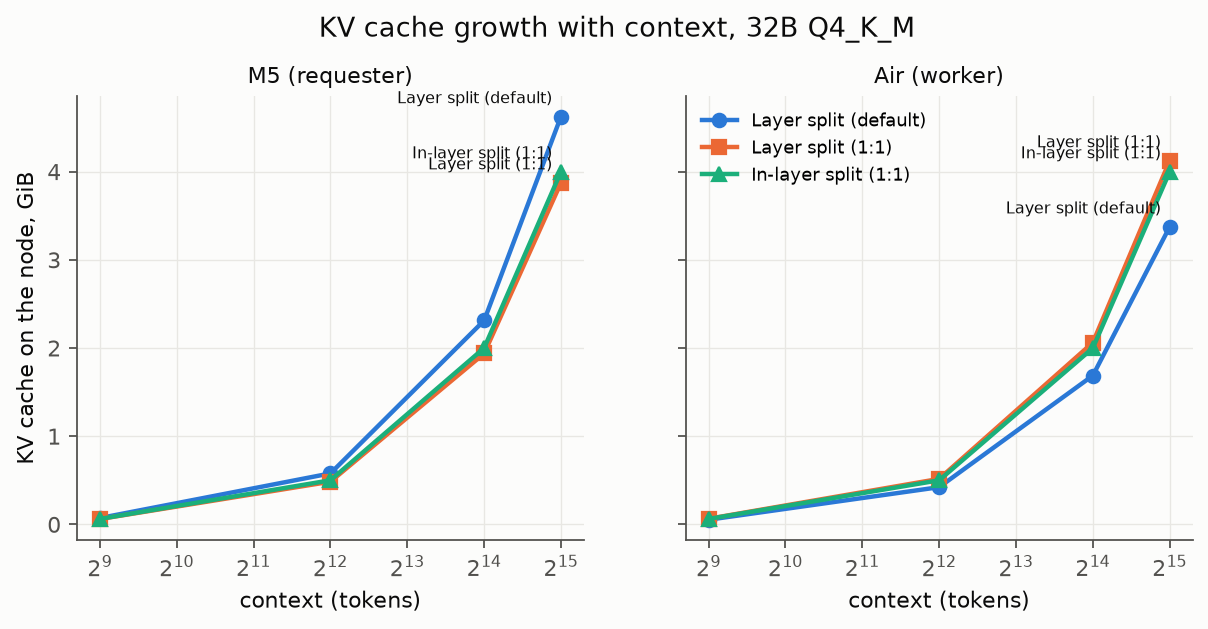
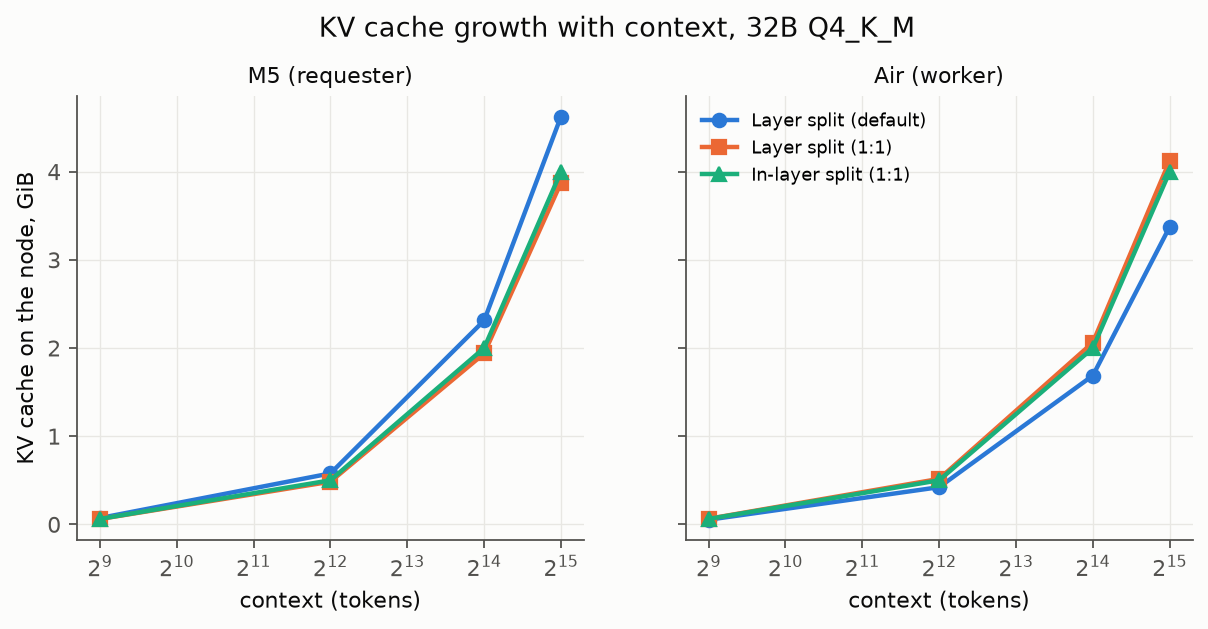
Session 5 G6: edge table and figures with the 3:2 splits and the no-mmap check; Air cache prune, extra override flags

diff --git a/nocturne/bench/plot_edge.py b/nocturne/bench/plot_edge.py
@@ -13,9 +13,12 @@ ROOT = Path(__file__).resolve().parents[2]
 OUT = ROOT / "experiments" / "session5_memory_edge"
 STEPS = [("qwen2.5-7b-q4km", "7B Q4_K_M"), ("qwen2.5-14b-q4km", "14B Q4_K_M"), ("qwen2.5-32b-q4km", "32B Q4_K_M"),
          ("qwen2.5-32b-q5km", "32B Q5_K_M"), ("qwen2.5-32b-q6k", "32B Q6_K"), ("qwen2.5-32b-q8", "32B Q8_0")]
-PARTS = ["local M5", "local Air", "PP default", "PP balanced", "TP", "TP 3:2"]
+PARTS = ["local M5", "local Air", "PP default", "PP 3:2", "PP 3:2 no-mmap", "PP balanced", "TP", "TP 3:2"]
 LABEL = {"local M5": "M5 alone", "local Air": "Air alone", "PP default": "Layer split (default)",
+         "PP 3:2": "Layer split (3:2)", "PP 3:2 no-mmap": "Layer split (3:2), no mmap",
          "PP balanced": "Layer split (1:1)", "TP": "In-layer split (1:1)", "TP 3:2": "In-layer split (3:2)"}
+SHORT = {"qwen2.5-7b-q4km": "7B\nQ4", "qwen2.5-14b-q4km": "14B\nQ4", "qwen2.5-32b-q4km": "32B\nQ4",
+         "qwen2.5-32b-q5km": "32B\nQ5", "qwen2.5-32b-q6k": "32B\nQ6", "qwen2.5-32b-q8": "32B\nQ8"}
 KIND = [("model", "Weights", "#2a78d6"), ("kv", "KV cache", "#eb6834"), ("compute", "Compute buffers", "#1baf7a")]
 GOOD, BAD, NA = "#0ca30c", "#d03b3b", "#e4e3df"
 INK, INK2, SURF = "#0b0b0b", "#52514e", "#fcfcfb"
@@ -28,18 +31,23 @@ plt.rcParams.update({"font.size": 10, "axes.edgecolor": INK2, "axes.labelcolor":
 
 def load(path: Path) -> list[dict]:
     with path.open() as f:
-        return list(csv.DictReader(f))
+        return [r for r in csv.DictReader(f) if r["prompts"] == "eval_set"]
 
 
 def num(v):
     return float(v) if v not in (None, "") else None
 
 
-def fig_bars(rows, ctx: int, out: Path):
-    steps = [(m, l) for m, l in STEPS if any(r["model"] == m and int(r["ctx"]) == ctx for r in rows)]
-    parts = ["PP default", "PP balanced", "TP"]
-    fig, axes = plt.subplots(1, len(steps), figsize=(3.2 * len(steps) + 1, 4.2), sharey=True, squeeze=False)
-    for ax, (m, lab) in zip(axes[0], steps):
+def fig_bars(rows, ctx: int, out: Path, models=None, parts=None, title=None, ncols=3):
+    steps = [(m, l) for m, l in STEPS if any(r["model"] == m and int(r["ctx"]) == ctx for r in rows)
+             and (models is None or m in models)]
+    parts = parts or ["PP default", "PP 3:2", "PP balanced", "TP", "TP 3:2"]
+    ncols = min(ncols, len(steps))
+    nrows = -(-len(steps) // ncols)
+    fig, axes = plt.subplots(nrows, ncols, figsize=(1.45 * len(parts) * ncols + 1, 4.6 * nrows), sharey=True, squeeze=False)
+    for ax in axes.flat[len(steps):]:
+        ax.set_visible(False)
+    for ax, (m, lab) in zip(axes.flat, steps):
         xs, ticks = [], []
         for i, p in enumerate(parts):
             r = next((r for r in rows if r["model"] == m and int(r["ctx"]) == ctx and r["partition"] == p), None)
@@ -55,17 +63,22 @@ def fig_bars(rows, ctx: int, out: Path):
                     ax.bar(x, v, bottom=bottom, width=0.8, color=c, edgecolor=SURF, linewidth=1)
                     bottom += v
                 ax.plot([x - 0.45, x + 0.45], [LINE[node]] * 2, color=INK, linewidth=1.5, linestyle="--")
-                mark = "fits" if r["fits"] == "yes" else (r["failure_class"] or "fail").split(";")[-1].replace("_", " ")
-                ax.text(x, bottom + 0.3, mark, rotation=90, ha="center", va="bottom", fontsize=7, color=INK)
-            ax.text(i * 2.6 + 0.5, -0.1, LABEL[p].replace(" (", "\n("), ha="center", va="top", fontsize=8, color=INK,
-                    transform=ax.get_xaxis_transform())
+            mark = "fits" if r and r["fits"] == "yes" else "fails"
+            if r is not None:
+                ax.text(i * 2.6 + 0.5, 20.2, mark, ha="center", va="bottom", fontsize=8,
+                        color=GOOD if mark == "fits" else BAD, fontweight="bold")
+            ax.text(i * 2.6 + 0.5, -0.09, LABEL[p].replace(" (", "\n(").replace(", ", "\n"), ha="center", va="top",
+                    fontsize=7.5, color=INK, transform=ax.get_xaxis_transform())
         ax.set_xticks(xs, ticks, fontsize=8)
-        ax.set_title(lab, fontsize=10, color=INK)
+        ax.set_title(lab, fontsize=10, color=INK, pad=16)
+        ax.set_ylim(0, 21)
         ax.grid(axis="x", visible=False)
-    axes[0][0].set_ylabel("GiB on the node's GPU")
+    for row in axes:
+        row[0].set_ylabel("GiB on the node's GPU")
     handles = [plt.Rectangle((0, 0), 1, 1, color=c) for _, _, c in KIND] + [plt.Line2D([], [], color=INK, linestyle="--")]
-    fig.legend(handles, [l for _, l, _ in KIND] + ["Metal working set line"], loc="lower center", bbox_to_anchor=(0.5, -0.12), ncol=4, frameon=False)
-    fig.suptitle(f"Memory per node at context {ctx}", y=1.0, color=INK)
+    fig.tight_layout(h_pad=4)
+    fig.legend(handles, [l for _, l, _ in KIND] + ["Metal working set line"], loc="upper center", bbox_to_anchor=(0.5, 0.0), ncol=4, frameon=False)
+    fig.suptitle(title or f"Memory per node at context {ctx}", y=1.02, color=INK)
     fig.savefig(out, dpi=160, bbox_inches="tight")
     plt.close(fig)
 
@@ -74,8 +87,12 @@ def fig_fitmap(rows, out: Path):
     steps = [(m, l) for m, l in STEPS if any(r["model"] == m for r in rows)]
     ctxs = sorted({int(r["ctx"]) for r in rows})
     parts = [p for p in PARTS if any(r["partition"] == p for r in rows)]
-    fig, axes = plt.subplots(1, len(parts), figsize=(2.6 * len(parts) + 0.6, 0.55 * len(ctxs) + 1.8), sharey=True, squeeze=False)
-    for ax, p in zip(axes[0], parts):
+    ncols = 4
+    nrows = -(-len(parts) // ncols)
+    fig, axes = plt.subplots(nrows, ncols, figsize=(3.0 * ncols + 0.6, (0.55 * len(ctxs) + 1.4) * nrows), sharey=True, squeeze=False)
+    for ax in axes.flat[len(parts):]:
+        ax.set_visible(False)
+    for ax, p in zip(axes.flat, parts):
         for xi, (m, _) in enumerate(steps):
             for yi, c in enumerate(ctxs):
                 r = next((r for r in rows if r["model"] == m and int(r["ctx"]) == c and r["partition"] == p), None)
@@ -84,13 +101,15 @@ def fig_fitmap(rows, out: Path):
                 if txt:
                     ax.text(xi + 0.5, yi + 0.5, txt, ha="center", va="center", fontsize=7, color="white")
         ax.set_xlim(0, len(steps)); ax.set_ylim(0, len(ctxs))
-        ax.set_xticks([i + 0.5 for i in range(len(steps))], [l.replace(" ", "\n") for _, l in steps], fontsize=7)
+        ax.set_xticks([i + 0.5 for i in range(len(steps))], [SHORT[m] for m, _ in steps], fontsize=7.5)
         ax.set_yticks([i + 0.5 for i in range(len(ctxs))], [str(c) for c in ctxs], fontsize=8)
         ax.set_title(LABEL[p], fontsize=9, color=INK)
         ax.grid(False)
         ax.spines["left"].set_visible(False); ax.spines["bottom"].set_visible(False)
-    axes[0][0].set_ylabel("context (tokens)")
-    fig.suptitle("Where each partition fits (grey: not run)", y=1.02, color=INK)
+    for row in axes:
+        row[0].set_ylabel("context (tokens)")
+    fig.tight_layout(h_pad=2)
+    fig.suptitle("Where each partition fits (grey: not run). Q4 = Q4_K_M, Q5 = Q5_K_M, Q6 = Q6_K, Q8 = Q8_0", y=1.03, color=INK)
     fig.savefig(out, dpi=160, bbox_inches="tight")
     plt.close(fig)
 
@@ -105,7 +124,6 @@ def fig_kv(rows, out: Path, model="qwen2.5-32b-q4km"):
             if not pts:
                 continue
             ax.plot([x for x, _ in pts], [y for _, y in pts], color=c, marker=mk, markersize=6, linewidth=2, label=LABEL[p])
-            ax.annotate(LABEL[p], pts[-1], textcoords="offset points", xytext=(-4, 6), ha="right", fontsize=7, color=INK)
         ax.set_xscale("log", base=2)
         ax.set_title("M5 (requester)" if node == "m5" else "Air (worker)", fontsize=10, color=INK)
         ax.set_xlabel("context (tokens)")
@@ -127,6 +145,9 @@ def main(argv=None):
     fig_bars(rows, a.ctx, fig_dir / "a_memory_per_node.png")
     fig_fitmap(rows, fig_dir / "b_fit_map.png")
     fig_kv(rows, fig_dir / "c_kv_growth.png")
+    fig_bars(rows, 16384, fig_dir / "d_q6k_ctx16384.png", models={"qwen2.5-32b-q6k"},
+             parts=["PP default", "PP 3:2", "PP 3:2 no-mmap", "TP 3:2"], ncols=1,
+             title="32B Q6_K at context 16384: the one cell where in-layer split fits and the layer split with mmap fails")
     print(f"figures -> {fig_dir}")
 
 

diff --git a/nocturne/bench/session5.py b/nocturne/bench/session5.py
@@ -22,10 +22,10 @@ PY = sys.executable
 SIZE = ["qwen2.5-7b-q4km", "qwen2.5-14b-q4km", "qwen2.5-32b-q4km", "qwen2.5-32b-q5km", "qwen2.5-32b-q6k", "qwen2.5-32b-q8"]
 NO_WORKER_COPY = {"qwen2.5-32b-q8"}          # deleted on the Air after the hash check (disk); workers never read it
 LABEL = {("A1", ""): "PP default", ("A1", "prop"): "PP 3:2", ("A1", "bal"): "PP balanced", ("B1", ""): "TP",
-         ("B1", "prop"): "TP 3:2", ("BASELINE", ""): "local", ("B1t", ""): "TP torch"}
+         ("B1", "prop"): "TP 3:2", ("A1", "propnommap"): "PP 3:2 no-mmap", ("BASELINE", ""): "local", ("B1t", ""): "TP torch"}
 # Device order differs by mode on 1e7bcf3: layer mode lists RPC devices first (-ts Air,M5), tensor mode puts the
 # requester first (-ts M5,Air; checked against the worker's set_tensor bytes, 2026-11-07). Both give M5 3, Air 2.
-TS = {("A1", "bal"): "1,1", ("A1", "prop"): "2,3", ("B1", "prop"): "3,2"}
+TS = {("A1", "bal"): "1,1", ("A1", "prop"): "2,3", ("A1", "propnommap"): "2,3", ("B1", "prop"): "3,2"}
 
 
 def now() -> str:
@@ -80,6 +80,8 @@ class Step:
             a += ["--fixed-tokens", str(self.fixed)]
         if (self.cell, self.var) in TS:
             a.append(f"--override-flag=-ts={TS[(self.cell, self.var)]}")
+        if "nommap" in self.var:
+            a.append("--override-flag=--load-mode=none")
         return a
 
 
@@ -131,9 +133,21 @@ class Orchestrator:
             self.say("Air not reachable over ssh; retrying in 60 s")
             time.sleep(60)
 
+    def prune_air_cache(self, min_free_gb: int = 25):
+        """ggml-rpc-server -c stores every received tensor on the Air's disk; clear it when free space runs low."""
+        ssh = ["ssh", "-o", "BatchMode=yes", "-o", "ConnectTimeout=10", self.air]
+        r = subprocess.run(ssh + ["df -g ~ | tail -1 | awk '{print $4}'"], capture_output=True, text=True, timeout=60)
+        free = r.stdout.strip()
+        if not free.isdigit() or int(free) >= min_free_gb:
+            return
+        r = subprocess.run(ssh + ["du -sh ~/Library/Caches/llama.cpp/rpc; rm -rf ~/Library/Caches/llama.cpp/rpc; "
+                                  "df -g ~ | tail -1 | awk '{print $4}'"], capture_output=True, text=True, timeout=600)
+        self.say(f"Air free disk {free} GB: cleared the RPC tensor cache ({' '.join(r.stdout.split())} GB free after)")
+
     def preflight(self, model: str):
         if model in self.preflighted or self.a.dry_run:
             return
+        self.prune_air_cache()
         argv = [PY, "-m", "nocturne.bench.preflight", "--model", model, "--min-free-gb", "25"]
         if model in NO_WORKER_COPY:
             argv.append("--no-worker-model")
@@ -201,7 +215,8 @@ class Orchestrator:
         if len(have) >= s.reps:
             s.status = "done earlier: " + ", ".join("ok" if r["success"] else str(r["failure_class"]) for r in have)
             return
-        self.preflight(s.model)
+        if s.cell != "B1t":
+            self.preflight(s.model)
         while len(s.records()) < s.reps:
             self.gate()
             s.status, s.t0 = "running", now()
@@ -295,6 +310,11 @@ class Orchestrator:
             g3 += [Step("G3", c, best["model"], int(best["ctx"]), v, pset="eval_long", fixed=256, subset=3),
                    Step("G3", c, best["model"], int(best["ctx"]), v, pset="eval_kv4k", fixed=64, subset=None)]
         self.group("G3", "real long prompts at the edge of each partition", g3)
+        self.group("G2c", "Q-C candidate: 32B Q6_K ctx 16384, TP 3:2 completed where both PP splits failed; repeats",
+                   [Step("G2c", "A1", "qwen2.5-32b-q6k", 16384, "prop", reps=3), Step("G2c", "B1", "qwen2.5-32b-q6k", 16384, "prop", reps=3),
+                    Step("G2c", "A1", "qwen2.5-32b-q6k", 16384, "", reps=2)])
+        self.group("G2d", "Q-C mechanism: 32B Q6_K ctx 16384 PP 3:2 with the weights not memory-mapped (--load-mode none)",
+                   [Step("G2d", "A1", "qwen2.5-32b-q6k", 16384, "propnommap", reps=2)])
         self.group("G5", "torch_tp engine, bf16, ctx 4096",
                    [Step("G5", "B1t", "qwen2.5-1.5b-bf16", 4096), Step("G5", "B1t", "qwen2.5-7b-bf16", 4096)])
 

diff --git a/nocturne/bench/derive_edge.py b/nocturne/bench/derive_edge.py
@@ -16,7 +16,7 @@ DEVLINE = re.compile(r"-\s+(MTL\d+|RPC\d+)\s*:\s*(.+?)\s*\((\d+) MiB, \d+ MiB fr
 WDEV = re.compile(r"MTL\d+: .*?\((\d+) MiB, \d+ MiB free\)")
 NODES = ("m5", "air")
 invalid: list[str] = []
-PARTITION_ORDER = ["local M5", "local Air", "PP default", "PP 3:2", "PP balanced", "TP", "TP 3:2", "TP torch"]
+PARTITION_ORDER = ["local M5", "local Air", "PP default", "PP 3:2", "PP 3:2 no-mmap", "PP balanced", "TP", "TP 3:2", "TP torch"]
 # Runs that carry no memory evidence for a reason the record itself cannot show.
 EXCLUDE = {"B1_wifi_qwen2.5-32b-q6k_m5_c4096prop_r1": "the Air dropped off the network during load (2026-11-08 05:25; ssh to the Air timed out in the runs before and after it)"}
 
@@ -27,6 +27,8 @@ def partition(r: dict, var) -> str:
         req = next(p for p in r["peers"] if p["role"] == "requester")
         return "local M5" if req["host"] == "MMF4FWRG4R" else "local Air"
     if c == "A1":
+        if "nommap" in (var or ""):
+            return "PP 3:2 no-mmap"
         return "PP balanced" if "bal" in (var or "") else ("PP 3:2" if "prop" in (var or "") else "PP default")
     if c == "B1":
         return "TP 3:2" if "prop" in (var or "") else "TP"

diff --git a/nocturne/bench/adapters/llamacpp_rpc.py b/nocturne/bench/adapters/llamacpp_rpc.py
@@ -290,6 +290,9 @@ class LlamaCppRpc(Engine):
                 continue
             flags.append(subst.get(tok, tok))
             i += 1
+        for tok, val in self.overrides.items():
+            if tok not in tmpl:
+                flags += [tok, val] if val else [tok]
         flags += ["--port", str(self.peers["server_port"]), "-c", str(self.ctx * max(1, k))] + FIXED_SERVER_FLAGS
         return flags
 

diff --git a/experiments/session5_memory_edge/PROGRESS.md b/experiments/session5_memory_edge/PROGRESS.md
@@ -1,6 +1,6 @@
 # Session 5 progress
 
-Updated 2026-11-14 16:11:50. Steps known so far: 65, finished: 63. Later groups add steps from earlier results (the largest model that fits, the edge per partition).
+Updated 2026-11-14 16:11:50. Steps known so far: 65, finished: 65. Later groups add steps from earlier results (the largest model that fits, the edge per partition).
 
 | group | step | status | records | start | end |
 |---|---|---|---|---|---|
@@ -67,8 +67,8 @@ Updated 2026-11-14 16:11:50. Steps known so far: 65, finished: 63. Later groups 
 | G2c | qwen2.5-32b-q6k ctx 16384 TP 3:2 | done earlier: ok, ok, ok | B1_wifi_qwen2.5-32b-q6k_m5_c16384prop_r1 B1_wifi_qwen2.5-32b-q6k_m5_c16384prop_r2 B1_wifi_qwen2.5-32b-q6k_m5_c16384prop_r3 |  |  |
 | G2c | qwen2.5-32b-q6k ctx 16384 PP default | done earlier: oom_worker_load, oom_worker_load | A1_wifi_qwen2.5-32b-q6k_m5_c16384_r1 A1_wifi_qwen2.5-32b-q6k_m5_c16384_r2 |  |  |
 | G2d | qwen2.5-32b-q6k ctx 16384 PP 3:2 no-mmap | ok | A1_wifi_qwen2.5-32b-q6k_m5_c16384propnommap_r1 A1_wifi_qwen2.5-32b-q6k_m5_c16384propnommap_r2 | 2026-11-14 16:09:29 | 2026-11-14 16:10:49 |
-| G5 | qwen2.5-1.5b-bf16 ctx 4096 TP torch | pending |  |  |  |
-| G5 | qwen2.5-7b-bf16 ctx 4096 TP torch | pending |  |  |  |
+| G5 | qwen2.5-1.5b-bf16 ctx 4096 TP torch | done earlier: ok | B1t_wifi_qwen2.5-1.5b-bf16_m5_c4096_r1 |  |  |
+| G5 | qwen2.5-7b-bf16 ctx 4096 TP torch | done earlier: ok | B1t_wifi_qwen2.5-7b-bf16_m5_c4096_r1 |  |  |
 
 ## Log (last 40 lines)
 
@@ -111,4 +111,6 @@ Changes not staged for commit:
 [2026-11-14 16:10:49]   A1_wifi_qwen2.5-32b-q6k_m5_c16384propnommap_r2: OK, quality unknown  decode 4.285937958237989  cmds/step 7.0  cmds/tok 8.3125  B/tok 102892.15625  acc 1.0 
 [2026-11-14 16:11:50] commit G2d: ok
 [2026-11-14 16:11:50] == G5: torch_tp engine, bf16, ctx 4096 (2 steps)
+[2026-11-14 16:11:50] commit G5: ok
+[2026-11-14 16:11:50] all groups finished
 ```
